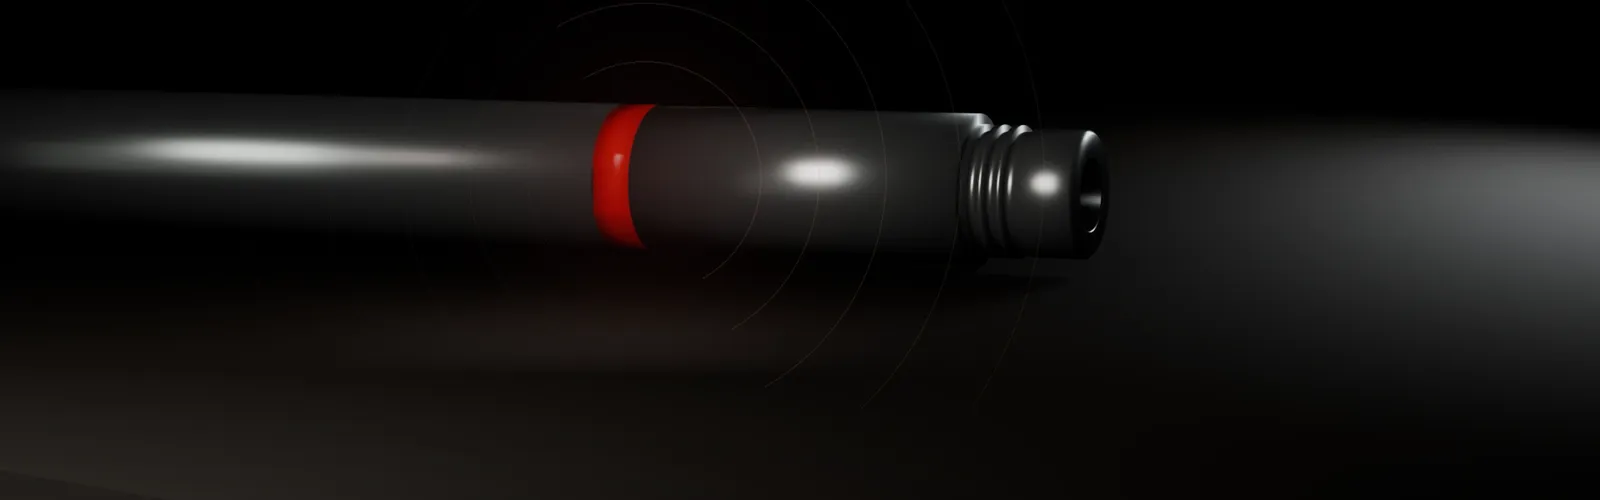
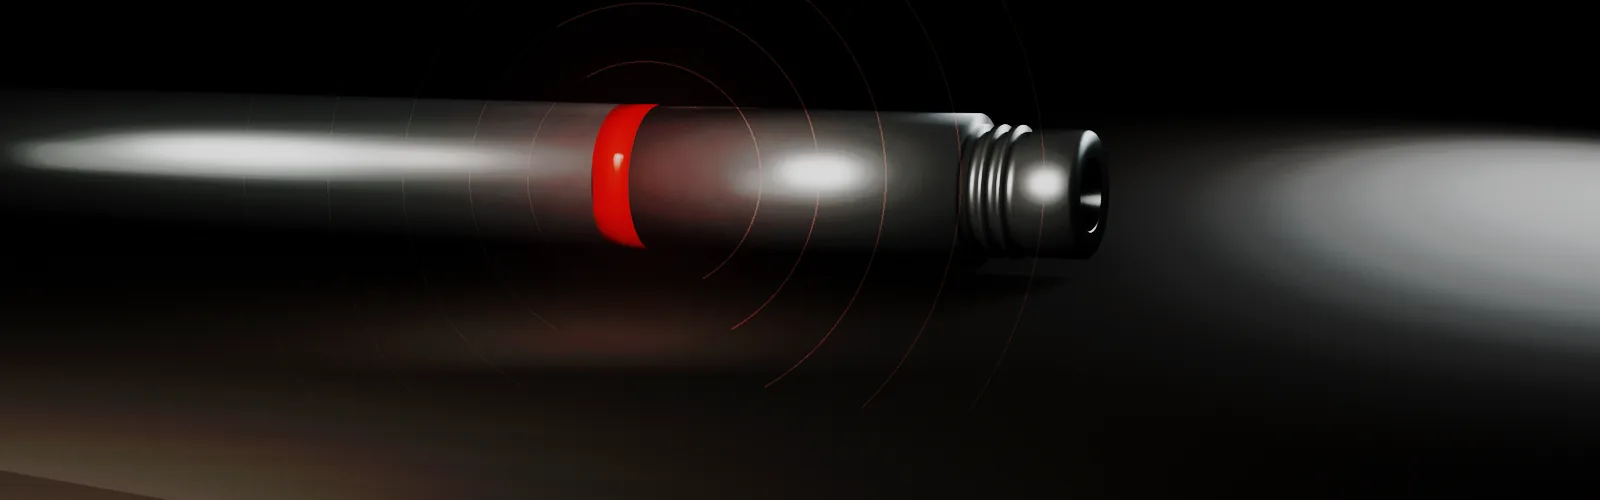
fix(round-14): the confirmation panel's eight P1s — the scrim that ate a headline, sand on every path, a figure that finally reads, and honest fluid physics
- the ch1 half-erased headline was never the compositor: the hero scrim's authored 170px
  bottom bleed crossed the headline at ~13% alpha (the verifier's diagnosis was disproven by
  experiment, then the real cause rect-hunted); .wellfi-section stacks above it now
- the retired solid-ember headline treatment is gone from the stills path too (stills-on
  twins for the round-6 sand rule; rm-smoke asserts sand on rm-1/4/6)
- the fluid-level chip respects the DOM: per-frame occlusion against the actual foreground
  panels (the verifier's whole-world rect hid the chip everywhere - measured, replaced)
- ch4 device figure regraded FROM SOURCE (tone curve, 2.5x mid slope, unclipped speculars,
  dither): tool body mean L 52.9 -> 88.8, the collar rings and sensor package read at 1366;
  flagged honestly - the letterbox band metric can't hit 40%-under-L20 without a grey slab
  in the darkest chapter
- phone header tagline hides <=430px (pause toggle collision); orphan divider cleaned
- rail strata legend dim is a colour, not opacity: 4.63:1 in the bright chapters (was 3.2)
- TRUTH: the fluid demo now spans 2600 -> 300 kPa (~250m of column - a real pump-off
  demonstration) and the site's canonical representative reading is the PRODUCING well
  (2600 kPa), not the pumped-off state; temperature direction fixed; ch3/ch4 still agree
- Grok P2s: phone fit chip stands down over live copy (hit-tested); stills-path anchor lag
[…]

diff --git a/src/styles/world.css b/src/styles/world.css
@@ -314,12 +314,14 @@ html.world-on .device-banner {
     linear-gradient(to left, rgba(3, 7, 11, 0.78) 0%, rgba(3, 7, 11, 0.48) 28%, rgba(3, 7, 11, 0) 64%),
     rgba(3, 7, 11, 0.82);
 }
-/* The tool is the subject of this chapter and the site was DIMMING it: brightness(0.82) on an already dark
-   approved render put the panel at mean luminance 0.058 (max 0.71 in two specular hits), so the left third
-   carried no edge information at laptop size. No site-side dimming of the approved render — saturate(0.22)
-   is untouched, so the one-candle rule (a HUE rule) still holds the figure to steel. */
-html.world-on .device-banner img { max-height: 220px; object-fit: contain; filter: saturate(0.22) brightness(1.35) contrast(1.1); transition: filter 600ms ease; }
-html.world-on.xray-on .device-banner img { filter: saturate(0.22) brightness(1.55) contrast(1.32); } /* x-ray on: the figure lifts with the world, no hue */
+/* The tool is the subject of this chapter, and the grade now lives in the ASSET (round 14: see
+   scratch/regrade-device.mjs — the round-12a crop of the Blender campaign render, re-graded with a real tone
+   curve; the tool body went 48 → 77 mean and the two speculars stopped clipping at 255). Round 13 tried to
+   rescue an ungraded near-black render with brightness(1.35) contrast(1.1) here, which only blew the speculars
+   harder without recovering the collar or the sensor-package edges. So no site-side lift at rest — only
+   saturate(0.22), the one-candle rule (a HUE rule), which still holds the figure to steel. */
+html.world-on .device-banner img { max-height: 220px; object-fit: contain; filter: saturate(0.22); transition: filter 600ms ease; }
+html.world-on.xray-on .device-banner img { filter: saturate(0.22) brightness(1.12) contrast(1.06); } /* x-ray on: a small readable step above rest, no hue — the asset carries the tone, so this is a step and not a rescue */
 html.world-on .device-caption { position: relative; z-index: 1; margin-top: 18px; color: var(--sand); }
 @media (max-width: 820px) { html.world-on .device-banner img { max-height: 150px; } html.world-on .device-banner { background: rgba(3, 7, 11, 0.92); } } /* phones already measure neutral corner-to-corner at 0.92 — no bleed here, so no second layer */
 html.world-on .portal-note { margin-top: 20px; }
@@ -429,13 +431,21 @@ html.motion-paused .device-banner img { animation: none !important; }
 html.motion-paused [data-motion],
 html.motion-paused [data-hero-step] { opacity: 1 !important; transform: none !important; }
 
-/* Display type over the world (round 1, two critics): one ember word per page — the hero's full stop. The h2
-   second lines set in sand so ember stays a surface accent (eyebrows, CTAs, counters), not a floodlight. The
-   chapter-5 chapter keeps ember for its eyebrow and the `yôtin` italic — the one word the chapter is about;
-   the qualifier verdict keeps its own colours. */
+/* Display type on every path (round 1, two critics; unscoped round 14): one ember word per page — the hero's
+   full stop. The h2 second lines set in sand so ember stays a surface accent (eyebrows, CTAs, counters), not a
+   floodlight. The chapter-5 chapter keeps ember for its eyebrow and the `yôtin` italic — the one word the
+   chapter is about; the qualifier verdict keeps its own colours.
+   Round 14: the rule was scoped `html.world-on` only, so the reduced-motion / Save-Data / tier-0 / no-WebGL2
+   path (html.stills-on — gate.js stamps the two mutually exclusively) still shipped the retired solid-ember
+   two-line headline. The stills path shows the same world as imagery, so it owes the same art direction.
+   Duplicated rather than unscoped: the class qualifier keeps this winning over /styles.css regardless of
+   bundle link order, and leaves the no-JS / pre-gate document rendering as authored. */
 html.world-on .section-intro h2 span,
 html.world-on .insight-head h2 span,
-html.world-on .contact-section h2 span { color: var(--sand); }
+html.world-on .contact-section h2 span,
+html.stills-on .section-intro h2 span,
+html.stills-on .insight-head h2 span,
+html.stills-on .contact-section h2 span { color: var(--sand); }
 
 /* Phone layout diet (spec §4 shed order, round 1): two-up channel cards and spec tiles at ≤ 560 px — the
    world carries the dwell, the DOM gets tighter rhythm. Tiles keep their 44 px twins. */

diff --git a/src/styles/rail.css b/src/styles/rail.css
@@ -47,10 +47,18 @@ html.stills-on .rail-tally, html.stills-on .rail-legend { opacity: 1; transform:
 .rail-caption { position: fixed; left: 14px; bottom: 142px; margin: 0; width: 168px; font-size: 9.5px; letter-spacing: 0.04em; text-transform: none; color: var(--sand-mute, #b3aa9a); line-height: 1.4; pointer-events: none; }
 
 /* Legend: visible twins for the strata. */
-.rail-legend { display: flex; flex-direction: column; gap: 2px; opacity: 0.55; transform: none; transition: opacity 320ms ease; } /* exists from first paint, dim; lights by name as the descent passes (spec §4 row 1) */
-.rail-legend.is-visible { opacity: 1; }
-.rail-legend-item { all: unset; cursor: pointer; color: var(--sand-mute, #b3aa9a); padding: 3px 8px; min-height: 22px; border-left: 1px solid rgba(232, 220, 200, 0.18); font: inherit; letter-spacing: inherit; text-transform: inherit; transition: color 200ms ease, border-color 200ms ease; }
-.rail-legend-item:hover, .rail-legend-item:focus-visible, .rail-legend-item.is-active { color: var(--sand); border-left-color: var(--sand); }
+/* The resting dim is a COLOUR step, never opacity — the same round-2 rule as the chapter nav above. At
+   opacity 0.55 the composite of --sand-mute over the gutter wash measured 3.2:1 in chapters 0, 5 and 6 (the
+   three where `is-visible` is off), under §6's ≥ 4.5:1 persistent-copy gate; these are live buttons with a
+   hover twin, so they are neither decorative nor disabled. #7e7a72 = 4.57:1 on #0a0a0b and still reads a full
+   step below the lit list (round 14). */
+.rail-legend { display: flex; flex-direction: column; gap: 2px; opacity: 1; transform: none; } /* exists from first paint, dim; lights by name as the descent passes (spec §4 row 1) */
+.rail-legend-item { all: unset; cursor: pointer; color: #7e7a72; padding: 3px 8px; min-height: 22px; border-left: 1px solid rgba(232, 220, 200, 0.18); font: inherit; letter-spacing: inherit; text-transform: inherit; transition: color 200ms ease, border-color 200ms ease; }
+.rail-legend.is-visible .rail-legend-item,
+html.stills-on .rail-legend .rail-legend-item { color: var(--sand-mute, #b3aa9a); } /* the stills path has no progress stream to light the legend by name — it keeps the lit colour it had when this dim was an opacity override */
+html .rail-legend .rail-legend-item:hover,
+html .rail-legend .rail-legend-item:focus-visible,
+html .rail-legend .rail-legend-item.is-active { color: var(--sand); border-left-color: var(--sand); }
 .rail-legend-item:focus-visible { outline: 1px solid var(--ember); outline-offset: 2px; }
 
 /* The paper chapter: the paper is a sheet laid on the world, inset from the rail gutter, so the rail keeps its
@@ -141,4 +149,6 @@ html.stills-on .rail-tally, html.stills-on .rail-legend { opacity: 1; transform:
     transition: opacity 200ms ease, transform 200ms ease;
   }
   .rail.has-fit .rail-fit { display: inline-flex; }
+  /* stands down while it is resting on live copy or a card, and comes back the moment it clears (round 14) */
+  .rail-fit.is-shy { opacity: 0; pointer-events: none; transform: translateY(6px); }
 }

diff --git a/styles.css b/styles.css
@@ -187,6 +187,8 @@ html.stills-on .brand-mini-copy small { animation: none; }
 
 .site-header[data-scrolled] .brand-mini { transform: scale(0.86); transform-origin: left center; }
 .site-header[data-scrolled] .brand-mini-copy small { opacity: 0; }
+/* …and the divider rule goes with it, or a pipe dangles with nothing after it (round 14). */
+.site-header[data-scrolled] .brand-mini-copy { border-left-color: transparent; padding-left: 0; }
 
 .desktop-nav { display: flex; align-items: center; gap: clamp(28px, 3.4vw, 52px); margin-left: auto; }
 .desktop-nav a {
@@ -490,7 +492,14 @@ html.stills-on .brand-mini-copy small { animation: none; }
    WellFi section
    ========================================================================== */
 
-.wellfi-section { padding: clamp(88px, 9vw, 148px) 0; background: var(--deep); }
+/* MUST own its own layer, above .hero-scrim (z-index 1) — the same omission the signal strip had below, and the
+   same fix. The scrim is a wash, not a pane: it bleeds 170 px PAST the bottom of the hero so its ramp reaches
+   alpha 0 outside the frame. That bleed lands on the top of this section, and its 100deg side gradient is still
+   at ~0.87 alpha over there — so at the chapter-1 anchor the scrim's bottom edge cut straight through the first
+   line of "Data Below.", dimming it to ~13 % above y=401 and leaving it full-strength below (round 14: a stable
+   mid-state at 1366 and 1440 both, which read as a rendering failure on the section the rail's DESCENT link
+   deposits you on). The scrim still darkens the artwork behind it; it just no longer darkens the next chapter. */
+.wellfi-section { position: relative; z-index: 2; padding: clamp(88px, 9vw, 148px) 0; background: var(--deep); }
 .section-intro { display: grid; grid-template-columns: 0.9fr 1.1fr; column-gap: clamp(42px, 8vw, 120px); align-items: end; }
 .section-intro .eyebrow { grid-column: 1 / -1; }
 .section-intro h2 {
@@ -1730,6 +1739,14 @@ html.stills-on .brand-mini-copy small { animation: none; }
   .brand-mini img { height: 34px; }
   .brand-mini-copy { padding-left: 9px; }
   .brand-mini-copy small { font-size: 8.5px; max-width: 150px; }
+  /* Spec §4: the pause control (fixed, right: 66px, 44px wide → left edge x=280 at 390) and the menu button own
+     the right gutter, and copy never enters it. At 390 the tagline box ran to x≈308, so the ring stroke cut
+     through "Services" and orphaned "Company" on the first phone paint (round 14). The line is not load-bearing
+     at this width — it already vanishes on the first scroll — and hiding the block takes its divider rule with
+     it, so no orphan pipe remains. */
+  @media (max-width: 430px) {
+    .brand-mini-copy { display: none; }
+  }
   .desktop-nav { display: none; }
   /* ChatFi already has a row in the mobile menu and a floating launcher;
      a third entry here only crowds the brand and the toggle. */

diff --git a/src/world/toolViz.js b/src/world/toolViz.js
@@ -375,6 +375,18 @@ export function createToolViz(world) {
     benchLift += (benchTarget - benchLift) * k; if (benchMat && benchMat.emissive) benchMat.emissiveIntensity = benchLift * 0.14;
     cutBoost += (cutTarget - cutBoost) * k; if (cutEdges) cutEdges.material.opacity = cutBase + 0.5 * cutBoost;
     // projected captions: the surface caption (wellhead) and the standoff caption (the 0.9 line, chapter 6)
+    // One rect per frame, shared by both side chips: the union of chapter 4's FOREGROUND panels — the heading,
+    // the device figure card and the deployment controls — which the level chips must not land on (round 14;
+    // see the cap.side branch below). Deliberately not `#insight .shell`: that box runs to x≈1270 at 1366, i.e.
+    // most of the world, and testing against it would hide the chips everywhere. The panels end at x≈772.
+    let sideRect = null;
+    for (const el of document.querySelectorAll('#insight .insight-head, #insight .device-banner, #insight .deploy-controls')) {
+      const r = el.getBoundingClientRect();
+      if (!r.width || !r.height) continue;
+      sideRect = sideRect
+        ? { left: Math.min(sideRect.left, r.left), top: Math.min(sideRect.top, r.top), right: Math.max(sideRect.right, r.right), bottom: Math.max(sideRect.bottom, r.bottom) }
+        : { left: r.left, top: r.top, right: r.right, bottom: r.bottom };
+    }
     for (const cap of [surfaceCaption, standoffCaption, levelCaption, earlierCaption]) {
       if (!cap) continue;
       rig.root.updateMatrixWorld(true); camera.updateMatrixWorld(true);
@@ -401,7 +413,13 @@ export function createToolViz(world) {
       }
       if (cap.side) {
         // level labels: flush right of the rule's end, never clamped — hidden when the point is off-screen or behind
-        const off = behind || x < minX - 60 || x > maxX || y < minY || y > maxY;
+        // The level chips label a rule out in the world. When the rule's end projects behind the chapter's copy
+        // column the chip lands on the device figure and reads as a caption on the product photograph (round 14:
+        // at pump-off "fluid level · now" sat at x 411–543, y 200–220, inside the .device-banner card and 170 px
+        // above the rule it names). Same rule as the standoff caption: a label pointing at nothing hides rather
+        // than clamps — clamping x would move the chip off a rule that is not screen-horizontal in this camera.
+        const occluded = !!sideRect && (x + 42) < sideRect.right + 12 && y > sideRect.top - 8 && y < sideRect.bottom + 8;
+        const off = behind || occluded || x < minX - 60 || x > maxX || y < minY || y > maxY;
         el.style.visibility = off ? 'hidden' : '';
         if (!off) el.style.transform = `translate(${(x + 42).toFixed(1)}px, ${y.toFixed(1)}px) translate(0, -50%)`;
         continue;

diff --git a/src/ui/rail.js b/src/ui/rail.js
@@ -159,15 +159,42 @@ export function mountRail() {
   fit.href = '#contact';
   fit.textContent = 'Check your well fit';
   rail.appendChild(fit);
-  let fitOn = null, atQualifier = false;
+  let fitOn = null, atQualifier = false, fitShy = null;
+  // Round 14: at 390 the chip is a fixed overlay and the chapters scroll under it — in chapters 3, 4 and 5 it
+  // came to rest on live copy and on the interactive cards (commissioning step 03's body, the CH-03 card, the
+  // deployment controls). Its own ground cannot help: the copy is UNDER it, so it is hidden either way. So the
+  // chip stands down while something readable is beneath it and comes back the moment it clears — the same
+  // "a label over the wrong thing hides rather than clamps" rule the world captions use. Five hit tests per
+  // scroll frame, no rect sweep over the document.
+  const SHY_UNDER = 'p, li, h1, h2, h3, h4, button, a, input, label, summary, .channel-card, .commission-step, .deploy-controls, .device-banner';
+  const fitOccluded = () => {
+    if (!fit.isConnected || getComputedStyle(fit).display === 'none') return false;
+    const r = fit.getBoundingClientRect();
+    if (!r.width) return false;
+    const pts = [[r.left + 4, r.top + 4], [r.right - 4, r.top + 4], [r.left + 4, r.bottom - 4], [r.right - 4, r.bottom - 4], [(r.left + r.right) / 2, (r.top + r.bottom) / 2]];
+    return pts.some(([x, y]) => (document.elementsFromPoint ? document.elementsFromPoint(x, y) : [])
+      .some((el) => el !== fit && !fit.contains(el) && !el.closest('.rail') && el.matches && el.matches(SHY_UNDER)));
+  };
   const syncFit = () => {
     const on = (window.scrollY || 0) > 44 && !atQualifier;
-    if (on === fitOn) return;
-    fitOn = on;
-    rail.classList.toggle('has-fit', on);
-    fit.tabIndex = on ? 0 : -1;
+    if (on !== fitOn) {
+      fitOn = on;
+      rail.classList.toggle('has-fit', on);
+      fit.tabIndex = on ? 0 : -1;
+    }
+    const shy = on && fitOccluded();
+    if (shy !== fitShy) {
+      fitShy = shy;
+      fit.classList.toggle('is-shy', shy);
+      fit.tabIndex = on && !shy ? 0 : -1;
+    }
   };
-  window.addEventListener('scroll', syncFit, { passive: true });
+  let fitTicking = false;
+  window.addEventListener('scroll', () => {
+    if (fitTicking) return;
+    fitTicking = true;
+    requestAnimationFrame(() => { fitTicking = false; syncFit(); });
+  }, { passive: true });
   const contact = document.querySelector('#contact');
   if (contact && typeof IntersectionObserver === 'function') {
     new IntersectionObserver((entries) => {

diff --git a/src/ui/deployment.js b/src/ui/deployment.js
@@ -32,16 +32,23 @@ export function mountDeployment() {
      Move the fluid level, stop, and 400 ms later the card says what a tool down there would be reading —
      plus what changed since the last time it settled. The value model is a straight line between the two
      ends of the instrument the visitor is already holding: more fluid over the pump = more head on the
-     gauge and a marginally warmer tool; at pump-off it lands exactly on the chapter-3 readout (158 kPa,
-     26 °C) so the two never contradict each other. Representative throughout: no live data, no WellFi
-     figure, and the readout says so on every line.
+     gauge and a warmer tool once the inflow past it stops; with fluid over the pump it lands exactly on the
+     chapter-3 readout (2600 kPa, 26 °C) so the two never contradict each other. Representative throughout: no
+     live data, no WellFi figure, and the readout says so on every line.
+
+     Round 14 (engineering truth): the span used to be 420 → 158 kPa, i.e. ~28 m of fluid column — an order of
+     magnitude too small for the event the instrument is named after, and it pinned the site's canonical
+     reading to the PUMPED-OFF well. A Clearwater PCP losing a healthy fluid level over the pump drops the
+     intake by a few hundred metres of column, so the two ends are now ~2600 kPa (producing, ≈250 m of column
+     over the pump at a ~9.5 kPa/m heavy-oil gradient) and ~300 kPa (pumped off, near-nothing over the intake),
+     and chapter 3's canonical figure is the producing end.
 
      Deliberately mounted OUT here rather than inside attach(): on the reduced-motion / no-WebGL path the
      world never arrives, but the slider still moves and must still answer. */
   const valuesEl = insight.querySelector('[data-fluid-values]');
   const deltaEl = insight.querySelector('[data-fluid-delta]');
-  const P_ABOVE = 420, P_PUMPOFF = 158;   // kPa, representative
-  const T_ABOVE = 26.9, T_PUMPOFF = 26.0; // °C, representative
+  const P_ABOVE = 2600, P_PUMPOFF = 300;  // kPa, representative — ~250 m of column collapses at pump-off
+  const T_ABOVE = 26.0, T_PUMPOFF = 26.9; // °C, representative — the pump runs warmer once it is pumped off (line 4), and the above-pump end holds chapter 3's 26 °C
   const readingFor = (d) => ({ p: P_ABOVE + (P_PUMPOFF - P_ABOVE) * d, t: T_ABOVE + (T_PUMPOFF - T_ABOVE) * d });
   const signed = (n, dec) => (n > 0 ? '+' : n < 0 ? '−' : '±') + Math.abs(n).toFixed(dec);
 

diff --git a/index.html b/index.html
@@ -305,7 +305,7 @@
             aria-hidden="true"
           >
         </div>
-        <p class="sr-only">Surface readout: pressure 158 kilopascals, temperature 26 degrees Celsius, and vibration 4.2 millimetres per second RMS.</p>
+        <p class="sr-only">Surface readout: pressure 2600 kilopascals, temperature 26 degrees Celsius, and vibration 4.2 millimetres per second RMS.</p>
       </div>
       <div class="hero-scrim" aria-hidden="true"></div>
 
@@ -375,8 +375,8 @@
             </div>
             <h4>Pressure</h4>
             <p>Pump-intake and reservoir response pressure at the lift point.</p>
-            <p class="channel-hud" aria-hidden="true"><span class="channel-hud-value" data-hud-value data-final="158" data-unit="kPa" data-decimals="0">— kPa</span><span class="tool-chip">representative values</span></p>
-            <span class="sr-only">Representative value: ≈ 158 kPa (representative values, not a live reading).</span>
+            <p class="channel-hud" aria-hidden="true"><span class="channel-hud-value" data-hud-value data-final="2600" data-unit="kPa" data-decimals="0">— kPa</span><span class="tool-chip">representative values</span></p>
+            <span class="sr-only">Representative value: ≈ 2600 kPa (representative values, not a live reading).</span>
           </article>
           <article class="channel-card" data-channel data-hotspot="ch-02" data-icon-anim role="button" tabindex="0">
             <span class="channel-sweep" aria-hidden="true"></span>
@@ -543,7 +543,7 @@
           <div class="readout" data-readout aria-label="Surface readout — representative values, visual timing not representative">
             <p class="readout-head"><span class="chip">representative values</span><span class="chip">visual timing not representative</span></p>
             <ul class="readout-list">
-              <li><span>Pressure</span><b data-readout-value data-final="158" data-unit="kPa" data-decimals="0">— kPa</b></li>
+              <li><span>Pressure</span><b data-readout-value data-final="2600" data-unit="kPa" data-decimals="0">— kPa</b></li>
               <li><span>Temperature</span><b data-readout-value data-final="26" data-unit="°C" data-decimals="0">— °C</b></li>
               <li><span>Vibration</span><b data-readout-value data-final="4.2" data-unit="mm/s RMS" data-decimals="1">— mm/s RMS</b></li>
             </ul>

diff --git a/src/ui/stills.js b/src/ui/stills.js
@@ -92,10 +92,20 @@ export function mountStills() {
       if (i === anchors.length - 1) { const f = el.querySelector('[data-anchor-focus]'); if (f && window.innerWidth < 1100) return f.getBoundingClientRect().top + window.scrollY - headerH(); return top - h * 0.15; }
       if (el.dataset && el.dataset.anchor === 'top') return top - headerH();
       if (el.dataset && el.dataset.anchor === 'top-mobile' && window.innerWidth <= 820) return top - headerH() - 36;
-      return top + r.height * 0.5 - h * 0.5;
+      // The conductor's centre-at-centre rule is right for a CONTINUOUS camera — between two anchors it is
+      // mid-transition, so the picture is never a chapter behind. A crossfade between seven discrete stills is
+      // not: holding the previous still until the section's centre reaches the viewport centre meant the
+      // chapter-3 commissioning copy was read with the chapter-2 tool close-up behind it for most of its scroll
+      // (round 14). The still now swaps as the chapter's heading settles into the upper third — never LATER
+      // than the conductor's anchor, so the two paths cannot disagree about which chapter has arrived.
+      return Math.min(top + r.height * 0.5 - h * 0.5, top - h * 0.35);
     }
     function pick() {
-      const y = window.scrollY + 1;
+      // 12 px of arrival tolerance: a `data-anchor="top"` chapter (commissioning, chapter 4, chapter 5) arrives
+      // at `top − header`, and landing a handful of pixels short of that — which anything that adds its own
+      // breathing room above the heading does — left the picture on the PREVIOUS chapter while the whole
+      // heading and its first card were on screen (round 14).
+      const y = window.scrollY + 12;
       let best = 0;
       anchors.forEach((el, i) => { if (anchorY(el, i) <= y) best = i; });
       show(best);
